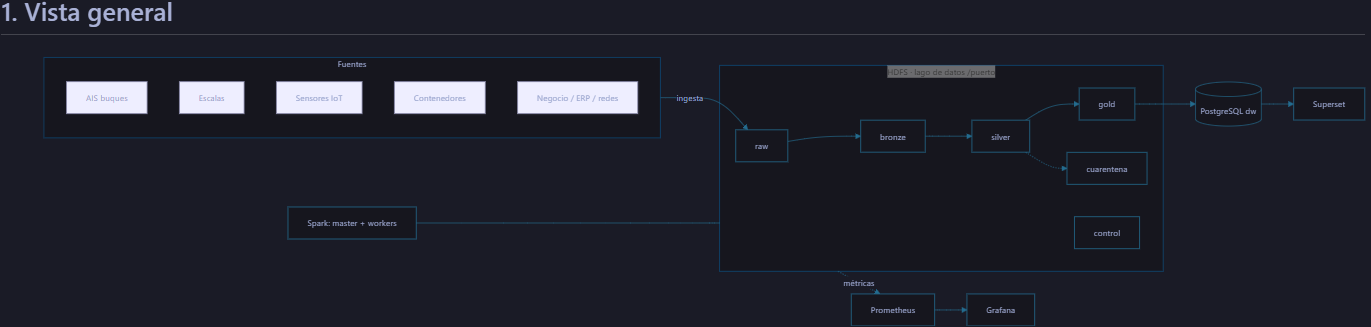
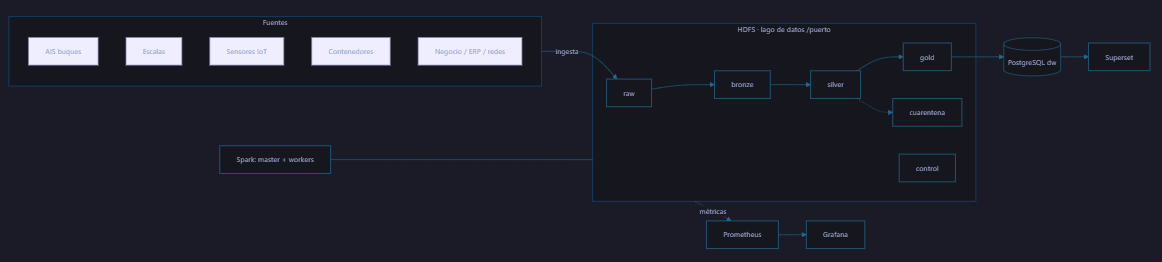
F1_E1: Modificacion contenido Tablas -2.Zonas del lago de datos- y -5.Componentes y recursos-

diff --git a/docs/ARQUITECTURA.md b/docs/ARQUITECTURA.md
@@ -28,12 +28,12 @@ flowchart LR
 ## 2. Zonas del lago de datos
 | Zona | Contenido | Formato | Particionado | Quién escribe | Retención |
 |---|---|---|---|---|---|
-| raw | Datos tal cual llegan(crudos).No modificables | CSV, Json | NFTS | User | Indefinida - Larga |
-| bronze | Los datos de raw pero tipados y en formato columnar | Segun dato | El mmismo | User | Hssta ser usados por la zaona bronze |
-| silver | Los datos importantes para el negocio, unificados y eliminado duplicados | Mismo que en bronze | El mismo | User | Hasta ser usados por la zona gold |
-| gold | Datos valiosos para toma de decisiones| Mantiene el formato de fase anterior | El mismo | User | Media - Toma de decisiones  |
-| cuarentena | Datos que no superan las reglas de calidad | El mismo que en zona anterior | El mismo |  User| Corta |
-| control | Metadatos que aseguran todo el sistema| de Peso minimo | El mismo | User | Infinita |
+| raw | Datos tal cual llegan(crudos).No modificables | CSV, Json. Formatos universales de texto plano estructurados o semiestructurados generados por las fuentes nativas | Sin particionar, el dato se almacena tal cual llega | El script automatizado *ingesta.sh* se encarga  de la carga de los datos al HDFS| Permanente e inmutable, actua como copia de seguridad ante cualquier fallo |
+| bronze | Los datos de raw pero fuertemente tipados  | Parquet, es un formato optimizado que comprime mucho el espacio y acelera las lecturas | Por fecha/año(datos físicos divididos en subcarpetas por fecha). Cuando Spark consulta filtrando por una fecha concreta, lee la carpeta asociada y descarta el resto | Spark es el motor de procesamiento distribuido encargado de leer los ficheros de raw, tiparlos y escribirlos masivamente en bronze | Permanente, forma parte del histórico consolidado del lago |
+| silver | Los datos limpios y deduplicados, coherentes y fiables | Parquet | Particionado por fecha | Spark | Permanente |
+| gold | Datos valiosos para toma de decisiones| Parquet | Sin particionar, aqui las tablas de datos son pequeñas y ligeras(contienen resúmenes), se guardan optimizadas para su consumo directo | Apache Spark | Permanente, son consulatdos por Bi o bases de datos |
+| cuarentena | Datos que no superan las reglas de calidad, datos incoherentes o incompletos | CSV / JSON | Sin particionar | Apache Spark | Temporal, hasta que se revisan las causas de estos datos incoherentes |
+| control | Metadatos que registran la trazabilidad administrativa del lago | JSONL - JSON Lines, ideal para registrar lineas de eventos o logs de auditoría | Sin particionar,no almacena datos sino registros administrativos, manifiestos e informes de ingesta | Script ingesta y Apache Spark | Permanente |
 
 ## 3. Fuentes e ingesta
 | Fuente | Tipo | Frecuencia real | Volumen/día | Mecanismo propuesto | Idempotente |
@@ -46,14 +46,14 @@ flowchart LR
 ## 5. Componentes y recursos
 | Servicio | Función | Réplicas | Memoria |
 |---|---|---|---|
-| namenode | Indice del sistema de ficheros HDFS | 1 | 1536 MB |
-| datanode |  Almacena los bloques de datos de HDFS | 3 | 728 MB c/u |
-| spark-master | Es el coordinador del claster Spark | 1 | 1 GB |
+| namenode | Maestro de HDFS: gestiona el árbol de directorios, metadatos y ubicación de bloques | 1 | 1536 MB |
+| datanode |  Almacena los bloques físicos de datos y sus réplicas en disco | 3 | 728 MB c/u = 2304 MB |
+| spark-master | Es el coordinador del clúster Spark: reparte los recursos y coordina a los workers | 1 | 1 GB |
 | spark-worker | Ejecuta las tareas del Spark | 2 | 2 GB |
 | jupyter | Notebook interactivo con PySpark | 1 | 2560 MB |
-| hdfs-exporter | Exporta métricas de HDFS a Prometheus (perfil monitor) | 1 | 128 MB |
-| node-exporter | Exporta métricas del sistema a Prometheus (perfil monitor) | 1 | 128 MB |
-| prometheus | Recolector de métricas (perfil monitor) | 1 | 512 MB |
-| grafana | Dashboards de monitorización (perfil monitor) | 1 | 384 MB |
-| postgres | Data warehouse puerto_dw (perfil bi) | 1 | 512 MB |
-| superset | Visualización de datos (perfil bi) | 1 | 1536 MB |
+| hdfs-exporter | Exporta métricas de HDFS a Prometheus (vigila la salud de los datos de Hadoop, si los 3 DataNodes siguen vivos, si faltan réplicas de bloques y si siguen entrando ficheros al lago) | 1 | 128 MB |
+| node-exporter | Exporta métricas del sistema(ordenador o servidor base donde está corriendo todo, vigila la salud de la CPU, RAM y disco duro del PC) a Prometheus (perfil monitor) | 1 | 128 MB |
+| prometheus | Base de datos de series temporales que almacenan las métricas de monitorización | 1 | 512 MB |
+| grafana | Dashboards para monitorizar la salud técnica del clúster | 1 | 384 MB |
+| postgres | Almacen relacionalD (puerto_dw) que recibe las tablas de negocio desde la capa Gold | 1 | 512 MB |
+| superset | Herramienta de Business Intelligence (BI) para visualización ejecutiva conectada a PostgreSQL | 1 | 1536 MB |
